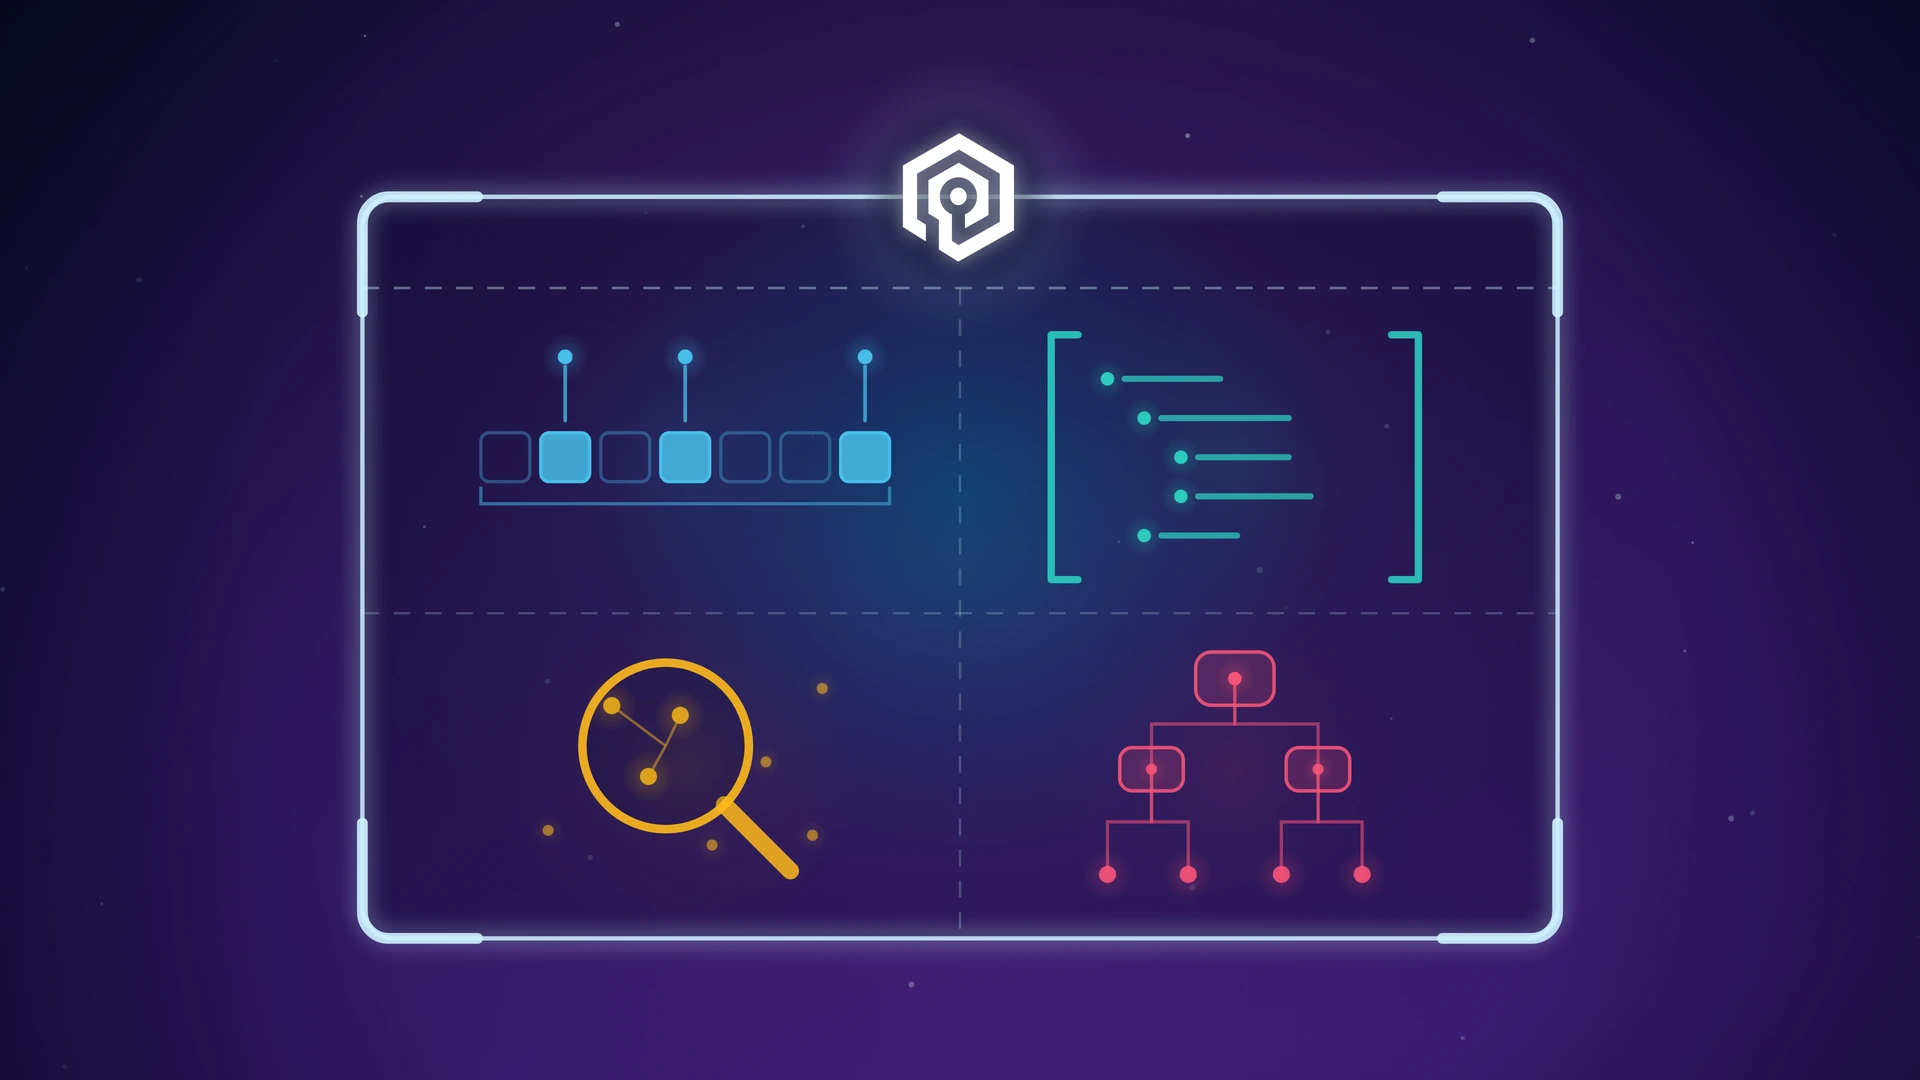
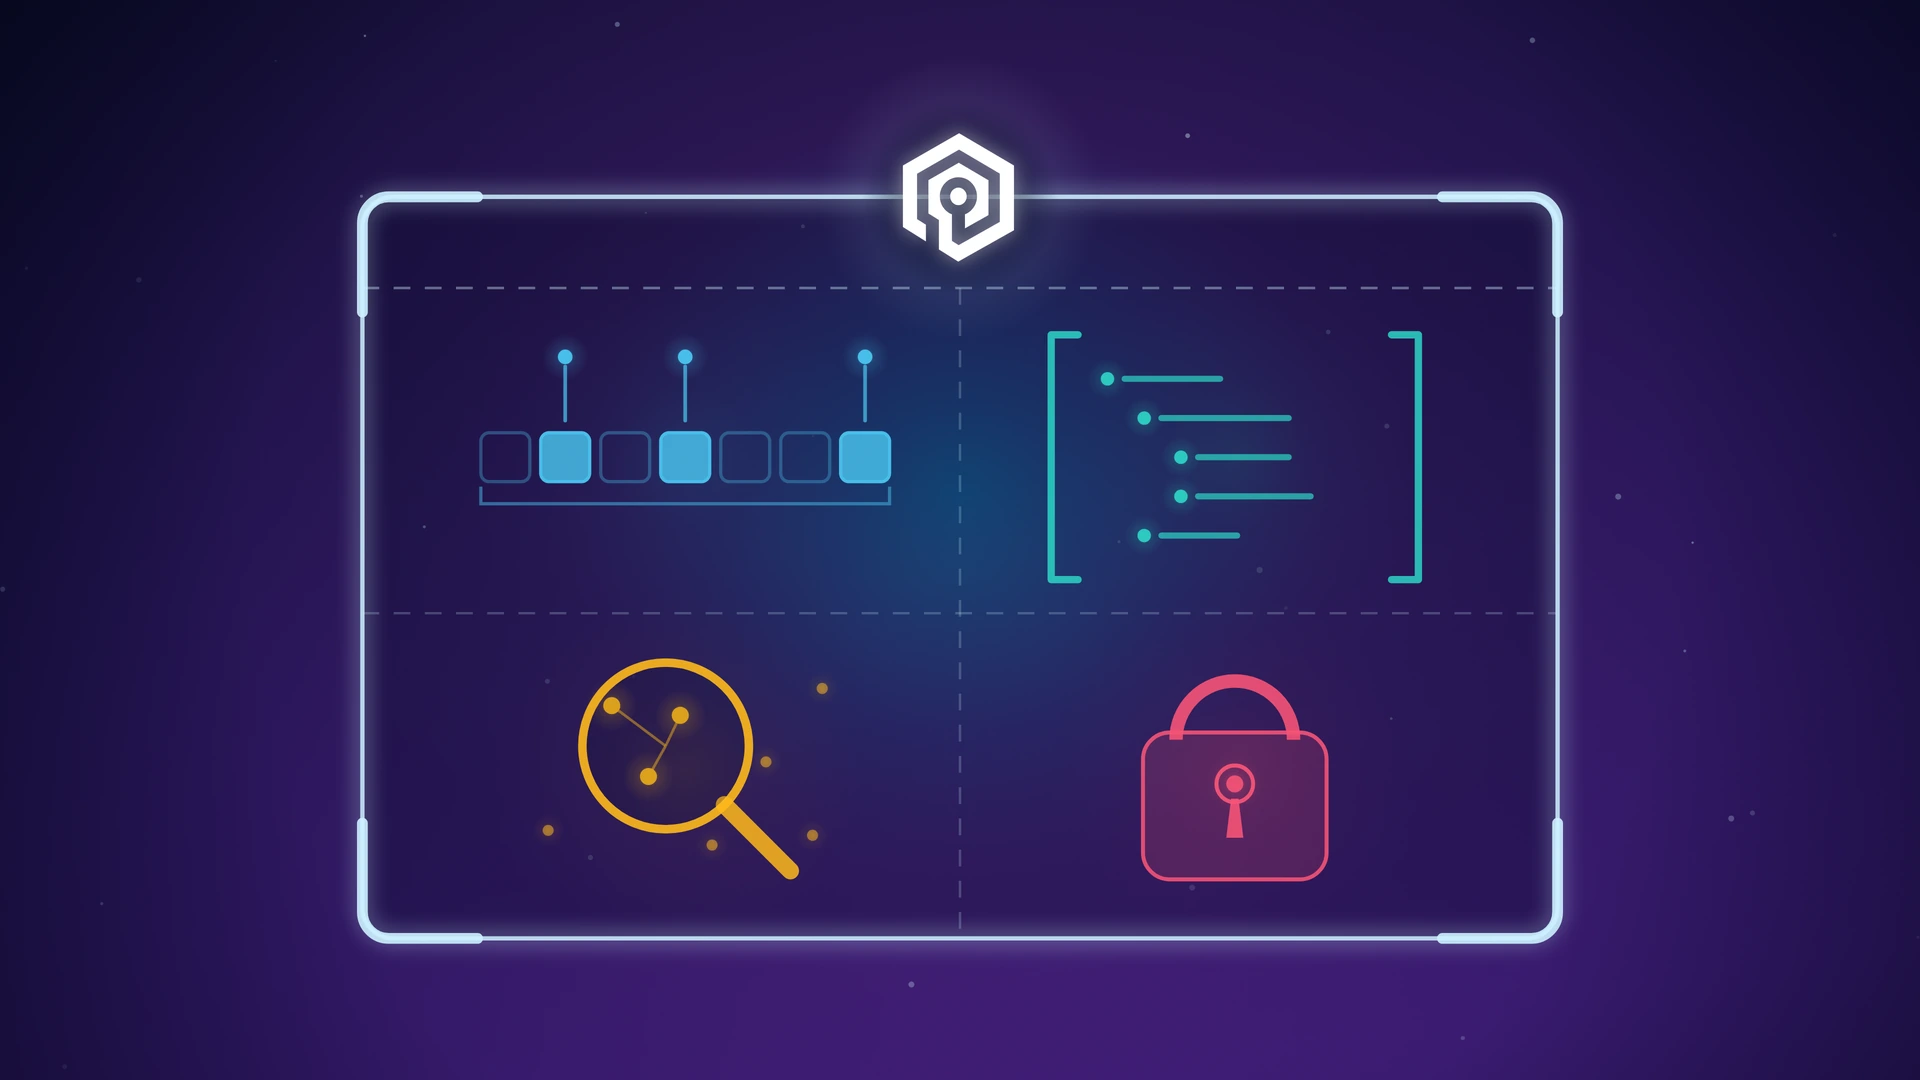
Draw valkey-ldap as a padlock, not a directory tree
The module is authentication against an LDAP directory, so the glyph has
to read as auth. A tree of nodes read as a data structure and sat oddly
beside the other three, which are all storage shapes. Both bundle themes
pick this up from the shared moduleGlyph helper, so they stay in step.

Changed region(s): [[0.5625, 0.5806, 0.7188, 0.825]]

diff --git a/README.md b/README.md
@@ -36,7 +36,7 @@ can't drift, and regenerating is a no-op diff.
 | `ai-agent-memory` | Conversation turns on a tape, recent ones lit in a window, older ones archived below and arcing back | Agent memory, chat history, context windows, mem0 |
 | `workload-fanout` | One inbound stream splitting at the mark into five differently shaped structures | AI workloads mapped onto Valkey primitives |
 | `conn-storm-spike` | Flat run of connection attempts spiking into a wall that overshoots the accept ceiling | Connection storms, accept backlog, reconnect surges |
-| `bundle-crate` | One bracketed package sealed with the mark, holding the bundle's four modules: bit array, nested document, magnifier, directory tree | valkey-bundle, module distributions, batteries-included packaging |
+| `bundle-crate` | One bracketed package sealed with the mark, holding the bundle's four modules: bit array, nested document, magnifier, padlock | valkey-bundle, module distributions, batteries-included packaging |
 | `bundle-one-install` | A single strap arriving at the mark and branching into the same four modules | valkey-bundle, one install that delivers several capabilities |
 | `tooling-stack` | Identical primitives at the base, differently detailed tools resting on them, the mark on top | Server primitives, what gets built on them, extensibility |
 | `data-structures-grid` | Six value types, one per cell on an even 3x2 grid: byte run, list, set, hash, sorted set, bitmap | Type overviews, command surveys, what Valkey stores |
